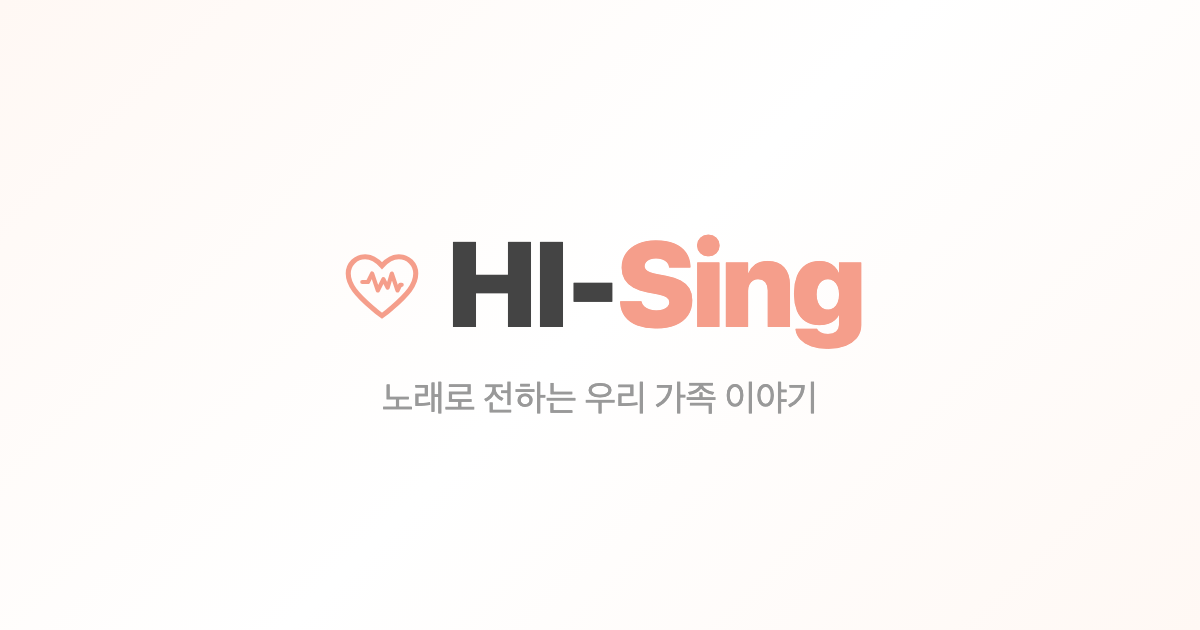
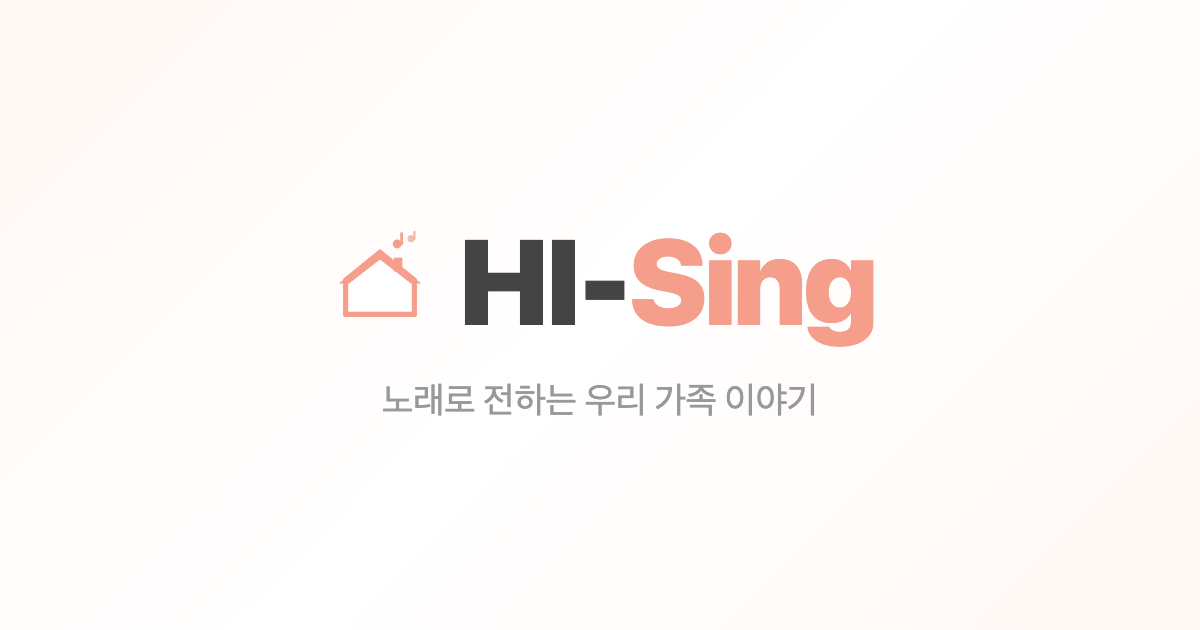
로고 교체: 집 + 굴뚝 음표 컨셉
- favicon.svg, Navigation, Footer, OG 이미지 모두 새 로고로 교체
- 기존 하트+파형 → 집(살구색 지붕 + 흰 벽) + 굴뚝에서 나오는 음표
- '쑥스러워서 말 못 하던 마음이 노래가 되어 집 밖으로 퍼지는' 스토리 반영

Changed region(s): [[0.2775, 0.3619, 0.74, 0.573], [0.3083, 0.6032, 0.6783, 0.6635]]

diff --git a/src/sections/Navigation.tsx b/src/sections/Navigation.tsx
@@ -59,10 +59,17 @@ export function Navigation({ activeTab, onTabChange }: NavigationProps) {
               className="flex items-center gap-2 group"
             >
               <svg className="w-8 h-8 flex-shrink-0" viewBox="0 0 32 32" fill="none">
-                {/* 하트 외곽선 */}
-                <path d="M16 28s-1.5-1-3.5-2.8C7 20.5 4 17 4 13a6 6 0 0 1 6-6c2.2 0 4.2 1.2 6 3.2C17.8 8.2 19.8 7 22 7a6 6 0 0 1 6 6c0 4-3 7.5-8.5 12.2C17.5 27 16 28 16 28z" stroke="currentColor" strokeWidth="1.8" className={`transition-colors ${isScrolled || !isTransparent ? 'text-primary-400' : 'text-white'}`} />
-                {/* 하트 안의 파형 */}
-                <path d="M9 16h2l1.5-3 2 6 2-4 1.5 3 1.5-5 2 6 1-2H23" stroke="currentColor" strokeWidth="1.5" strokeLinecap="round" strokeLinejoin="round" className="text-primary-400" />
+                {/* 집 벽 */}
+                <path d="M6 16 L16 8 L26 16 L26 26 L6 26 Z" fill="white" className={`${isScrolled || !isTransparent ? '' : 'opacity-90'}`} stroke="currentColor" strokeWidth="1.5" strokeLinejoin="round" />
+                {/* 지붕 */}
+                <path d="M4 17 L16 7 L28 17 L25 17 L16 10 L7 17 Z" className="text-primary-400" fill="currentColor" />
+                {/* 굴뚝 */}
+                <rect x="20" y="9.5" width="2.5" height="4" className="text-primary-400" fill="currentColor" />
+                {/* 음표 */}
+                <circle cx="21" cy="5.5" r="1.3" className="text-primary-400" fill="currentColor" />
+                <path d="M22.3 5.5 L22.3 2.5" stroke="currentColor" strokeWidth="0.8" strokeLinecap="round" className="text-primary-400" />
+                <circle cx="25" cy="4" r="1" className="text-primary-400 opacity-70" fill="currentColor" />
+                <path d="M26 4 L26 2" stroke="currentColor" strokeWidth="0.7" strokeLinecap="round" className="text-primary-400 opacity-70" />
               </svg>
               <span className={`text-lg font-bold transition-colors ${isScrolled || !isTransparent ? 'text-ink' : 'text-white'}`}>
                 하이싱 <span className="text-xs text-ink-faint ml-1">HI-Sing</span>

diff --git a/src/sections/Footer.tsx b/src/sections/Footer.tsx
@@ -15,8 +15,13 @@ export function Footer() {
           </p>
           <div className="flex items-center gap-2">
             <svg className="w-6 h-6 sm:w-7 sm:h-7 flex-shrink-0" viewBox="0 0 32 32" fill="none">
-              <path d="M16 28s-1.5-1-3.5-2.8C7 20.5 4 17 4 13a6 6 0 0 1 6-6c2.2 0 4.2 1.2 6 3.2C17.8 8.2 19.8 7 22 7a6 6 0 0 1 6 6c0 4-3 7.5-8.5 12.2C17.5 27 16 28 16 28z" stroke="currentColor" strokeWidth="1.8" className="text-primary-400" />
-              <path d="M9 16h2l1.5-3 2 6 2-4 1.5 3 1.5-5 2 6 1-2H23" stroke="currentColor" strokeWidth="1.5" strokeLinecap="round" strokeLinejoin="round" className="text-primary-400" />
+              <path d="M6 16 L16 8 L26 16 L26 26 L6 26 Z" fill="white" stroke="#F59E8B" strokeWidth="1.5" strokeLinejoin="round" />
+              <path d="M4 17 L16 7 L28 17 L25 17 L16 10 L7 17 Z" fill="#F59E8B" />
+              <rect x="20" y="9.5" width="2.5" height="4" fill="#F59E8B" />
+              <circle cx="21" cy="5.5" r="1.3" fill="#F59E8B" />
+              <path d="M22.3 5.5 L22.3 2.5" stroke="#F59E8B" strokeWidth="0.8" strokeLinecap="round" />
+              <circle cx="25" cy="4" r="1" fill="#F59E8B" opacity="0.7" />
+              <path d="M26 4 L26 2" stroke="#F59E8B" strokeWidth="0.7" strokeLinecap="round" opacity="0.7" />
             </svg>
             <span className="text-sm sm:text-base font-bold text-white">
               하이싱 <span className="text-[10px] sm:text-xs text-neutral-500 ml-1">HI-Sing</span>
